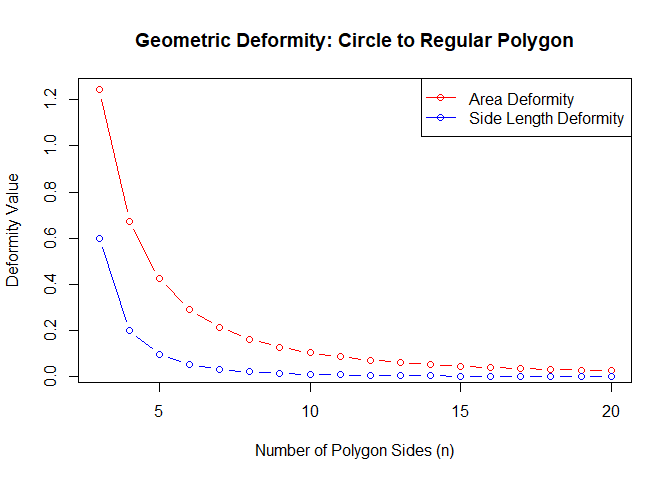
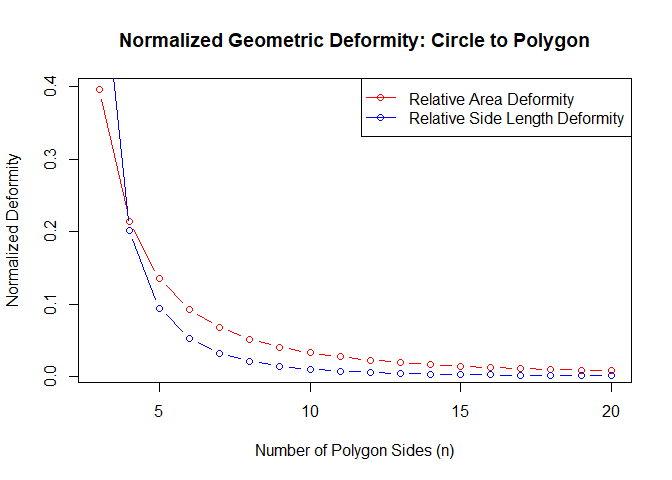
update README

diff --git a/README.md b/README.md
@@ -72,21 +72,27 @@ n_vals <- 3:20
 side_deformity <- dcaprps(n_vals)
 area_deformity <- dcaprpa(n_vals)
 
+# Normalize the values to make them dimensionless for a fair comparison
+# Normalize area deformity by the circle's area (pi*r^2, with r=1)
+# Normalize side deformity by the circle's radius (r=1)
+norm_area_def <- area_deformity / pi
+norm_side_def <- side_deformity / 1
+
 # Plot the results
-plot(n_vals, area_deformity, type = "b", col = "red",
-     xlab = "Number of Polygon Sides (n)", ylab = "Deformity Value",
-     main = "Geometric Deformity: Circle to Regular Polygon")
-lines(n_vals, side_deformity, type = "b", col = "blue")
-legend("topright", c("Area Deformity", "Side Length Deformity"), 
+plot(n_vals, norm_area_def, type = "b", col = "red",
+     xlab = "Number of Polygon Sides (n)", ylab = "Normalized Deformity",
+     main = "Normalized Geometric Deformity: Circle to Polygon")
+lines(n_vals, norm_side_def, type = "b", col = "blue")
+legend("topright", c("Relative Area Deformity", "Relative Side Length Deformity"), 
        col = c("red", "blue"), lty = 1, pch = 1)
 ```
 
 <div class="figure">
 
-<img src="man/figures/README-example-2d-plot-1.png" alt="Comparison of Area and Side Length Deformity as the number of polygon sides increases." width="100%" />
+<img src="man/figures/README-example-2d-plot-1.png" alt="Comparison of normalized Area and Side Length Deformity as the number of polygon sides increases." width="100%" />
 <p class="caption">
-Comparison of Area and Side Length Deformity as the number of polygon
-sides increases.
+Comparison of normalized Area and Side Length Deformity as the number of
+polygon sides increases.
 </p>
 
 </div>
